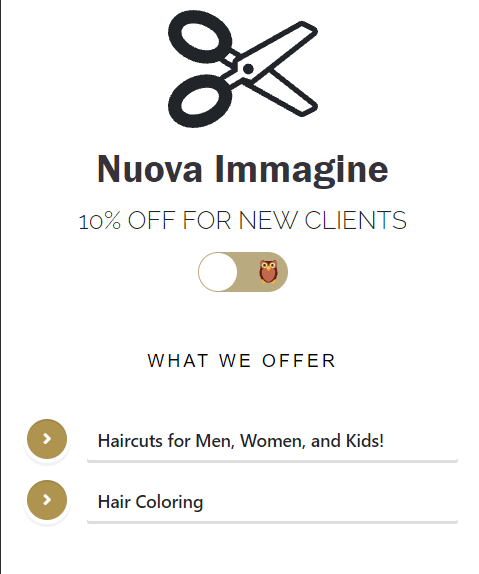
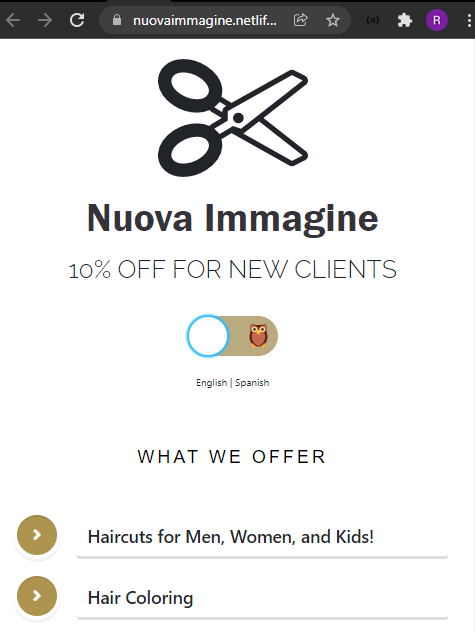
its good now

Changed region(s): [[0.0, 0.0, 1.0, 0.6516], [0.1768, 0.7108, 0.9432, 1.0], [0.0295, 0.7108, 0.1474, 0.9774]]

diff --git a/src/mock/data.js b/src/mock/data.js
@@ -29,33 +29,33 @@ export const aboutData = {
 export const projectsData = [
   {
     id: nanoid(),
-    img: 'clojuretictac.png',
-    title: 'Clojure Tic Tac Toe',
+    img: 'nuova.png',
+    title: 'Professional Experience',
     info:
-      "When trying to learn a new framework/language, recreating tic tac toe is my goto. This will usually be enough to familiarize with syntax, and some of the quirks that the framework/language has. Out of all the versions i've made the clojure version has been my favorite. Why? Mostly becuase it forced me into doing things differently. How so? It made me code in a functional way. I also learned how to recursively pass state around. Which I think is a neat way of doing things.",
-    info2: '',
-    url: 'https://github.com/SantoHerrera/clojuretictac',
-    repo: 'https://github.com/SantoHerrera/clojuretictac', // if no repo, the button will not show up
+      "Heres a website I made for a client. I got a react template I found on github and changed it to thier needs. Although it's very similer to the original I did run into a bunch of roadblocks changing it.",
+    info2: 'Original: https://github.com/Dorota1997/react-frontend-dev-portfolio',
+    url: 'https://nuovaimmagine.netlify.app/',
+    repo: 'https://github.com/SantoHerrera/nuovaimmagine', // if no repo, the button will not show up
   },
   {
     id: nanoid(),
     img: 'Screenshot (7).png',
     title: 'Vue Minesweeper ',
     info:
-      "I love minesweeper. It was actually the thing that got me into programming. I've rewritten this alot aswell. My favorite version has been the Vue js version. Why? Becuase its the shortest version. ",
+      "I love minesweeper, it was the thing that got me into programming. I've rewritten this alot. My favorite version being the Vue js version as its the shortest version. ",
     info2: '',
     url: 'https://vueminesweeper.netlify.app/',
     repo: 'https://github.com/SantoHerrera/minesweeperbutinvue', // if no repo, the button will not show up
   },
   {
     id: nanoid(),
-    img: 'nuova.png',
-    title: 'Professional Experience',
+    img: 'clojuretictac.png',
+    title: 'Clojure Tic Tac Toe',
     info:
-      "Heres a website I made for a client. I didn't make this from scratch. I got a premade template and changed it to thier needs. They were really happy with the results. As was I. Although it's very similer to the original template I did run into a bunch of roadblocks changing it to my needs.",
-    info2: 'Original: https://github.com/Dorota1997/react-frontend-dev-portfolio',
-    url: 'https://nuovaimmagine.netlify.app/',
-    repo: 'https://github.com/SantoHerrera/nuovaimmagine', // if no repo, the button will not show up
+      "When trying to learn a new framework/language, recreating tic tac toe is my goto. This will usually get the ball rolling with syntax and everything that follows. Out of all the versions i've made the clojure version has been my favorite. As it forced me into doing things in a functional way.",
+    info2: '',
+    url: 'https://github.com/SantoHerrera/clojuretictac',
+    repo: 'https://github.com/SantoHerrera/clojuretictac', // if no repo, the button will not show up
   },
 ];
 

diff --git a/src/style/abstracts/_variables.scss b/src/style/abstracts/_variables.scss
@@ -1,6 +1,6 @@
 // COLORS
-$primary-color: #9937C1;
-$secondary-color: #B460D6;
+$primary-color: #000000;
+$secondary-color: #713c86;
 
 // $primary-color: #7f449d;
 // $secondary-color: #793fc1;
